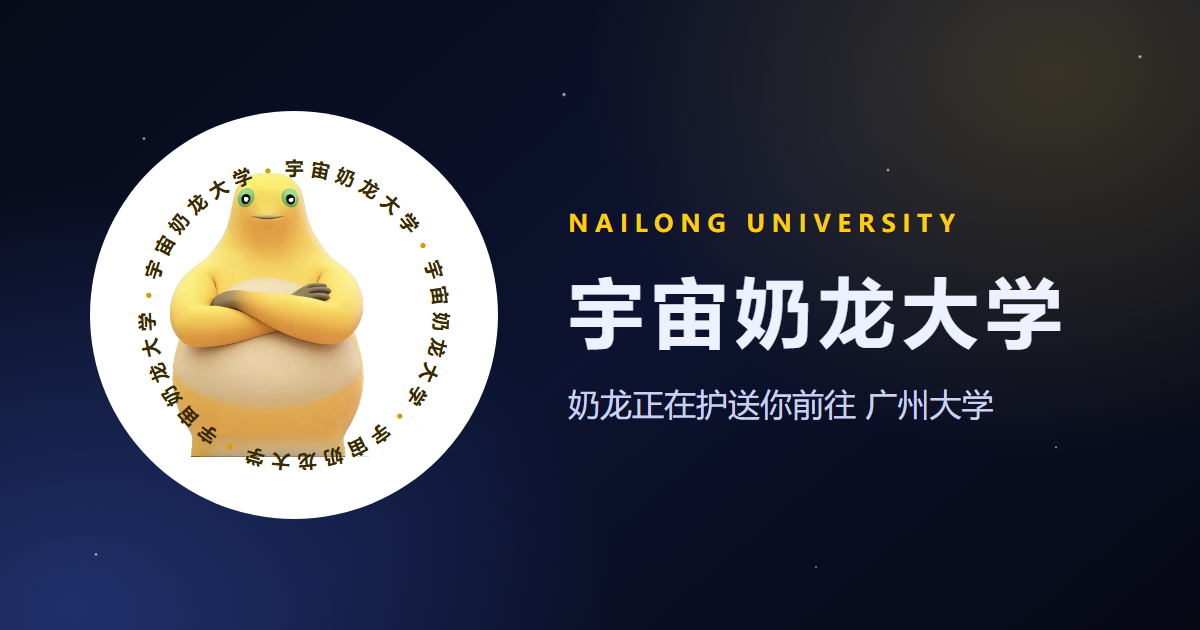
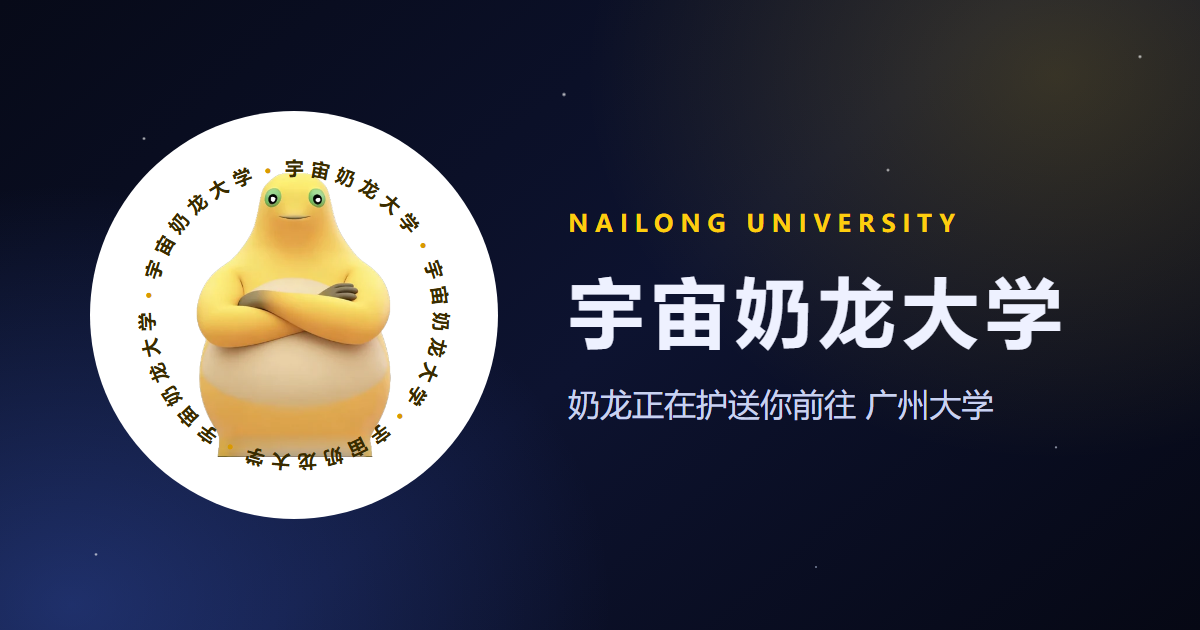
修复奶龙不居中：抠图后只保留最大连通域，清掉残留阴影碎片撑大的包围盒

Changed region(s): [[0.1233, 0.2714, 0.3392, 0.7238]]

diff --git a/tools/prepare_nailong.py b/tools/prepare_nailong.py
@@ -10,8 +10,14 @@
 素材没有 alpha 通道，背景是浅灰渐变 + 地面阴影；奶龙是饱和的黄色，
 所以用 HSV 饱和度做抠图：背景 R≈G≈B（饱和度极低），奶龙和肚皮都明显偏黄。
 
+抠完还要做一步「只留最大连通域」：原图右下角的地面阴影饱和度略高于阈值，
+会残留几块十几个像素的碎片。它们本身看不见，但会把 alpha 包围盒撑大
+（实测右边界从 413 被撑到 504），而 place() 是拿包围盒来算居中的 ——
+结果奶龙整只会偏左半格。所以必须先把这些孤岛清掉。
+
 跑法： python tools/prepare_nailong.py
 """
+from collections import deque
 from pathlib import Path
 
 import numpy as np
@@ -24,12 +30,54 @@ CANVAS = 720               # 和 ring.svg 的 viewBox 一致
 FIT = 486                  # 校徽中心：奶龙最长边占的像素数
 FIT_ICON = 524             # 图标：可以占得更满一点
 S_LO, S_HI = 0.055, 0.16   # 饱和度阈值：低于 LO 判为背景，高于 HI 判为奶龙
+KEEP_T = 64                # 「算连通域」用的阈值：低于它的像素不参与判定
+ALPHA_MIN = 40             # 最终 alpha 低于它的直接抹成 0（清掉大片极淡的阴影）
 
 
 def saturation(rgb: np.ndarray) -> np.ndarray:
     mx = rgb.max(axis=2)
     mn = rgb.min(axis=2)
     return (mx - mn) / np.maximum(mx, 1e-6)
+
+
+def keep_largest_blob(a: Image.Image) -> Image.Image:
+    """只保留最大的一块连通区域，其余孤岛一律抹掉（4 邻接，广度优先）。
+
+    这一步是为了修「奶龙不居中」：残留阴影碎片会把包围盒撑大，而居中用的是包围盒。
+    """
+    al = np.asarray(a).copy()
+    h, w = al.shape
+    mask = al >= KEEP_T                 # 只有够实的像素才算「奶龙的一部分」
+    seen = np.zeros((h, w), bool)
+
+    # 先把不达标的像素的 alpha 归零，剩下的再按连通域筛
+    al[~mask] = 0
+
+    best: list[tuple[int, int]] = []
+    for sy in range(h):
+        row = mask[sy]
+        for sx in range(w):
+            if not row[sx] or seen[sy, sx]:
+                continue
+            # 从 (sy, sx) 泛洪，收集这一整块
+            seen[sy, sx] = True
+            queue = deque([(sy, sx)])
+            blob = [(sy, sx)]
+            while queue:
+                y, x = queue.popleft()
+                for ny, nx in ((y - 1, x), (y + 1, x), (y, x - 1), (y, x + 1)):
+                    if 0 <= ny < h and 0 <= nx < w and mask[ny, nx] and not seen[ny, nx]:
+                        seen[ny, nx] = True
+                        queue.append((ny, nx))
+                        blob.append((ny, nx))
+            if len(blob) > len(best):
+                best = blob
+
+    keep = np.zeros((h, w), bool)
+    for y, x in best:
+        keep[y, x] = True
+    al[~keep] = 0
+    return Image.fromarray(al, "L")
 
 
 def cutout() -> Image.Image:
@@ -41,7 +89,8 @@ def cutout() -> Image.Image:
     a = Image.fromarray((alpha * 255).astype(np.uint8), "L")
     a = a.filter(ImageFilter.MedianFilter(5))      # 干掉孤立噪点
     a = a.filter(ImageFilter.GaussianBlur(0.8))    # 轻微羽化，边缘不生硬
-    a = a.point(lambda v: 0 if v < 60 else (255 if v > 200 else int((v - 60) * 255 / 140)))
+    a = a.point(lambda v: 0 if v < ALPHA_MIN else (255 if v > 200 else int((v - ALPHA_MIN) * 255 / (200 - ALPHA_MIN))))
+    a = keep_largest_blob(a)
 
     out = src.convert("RGBA")
     out.putalpha(a)
@@ -49,7 +98,10 @@ def cutout() -> Image.Image:
 
 
 def place(cut: Image.Image, fit: int = FIT, canvas: int = CANVAS) -> Image.Image:
-    """裁掉 alpha 之外的空白，等比缩放到 fit 像素，居中放进 canvas。"""
+    """裁掉 alpha 之外的空白，等比缩放到 fit 像素，居中放进 canvas。
+
+    居中用的是 alpha 包围盒，所以 cutout() 必须先把残留噪点清干净，否则会偏。
+    """
     bbox = cut.getchannel("A").point(lambda v: 255 if v > 8 else 0).getbbox()
     body = cut.crop(bbox)
     scale = fit / max(body.size)
@@ -84,7 +136,15 @@ def main() -> None:
 
     for f in ("core.png", "core.webp", "favicon.png", "favicon.ico"):
         print(f"{f}: {(ROOT / f).stat().st_size / 1024:.1f} KB")
-    print("奶龙在校徽里的位置:", core.getbbox())
+
+    # 自检：包围盒必须和画布同心，否则页面上奶龙会偏
+    box = core.getbbox()
+    cx = (box[0] + box[2]) / 2
+    cy = (box[1] + box[3]) / 2
+    print(f"奶龙包围盒: {box}  尺寸 {box[2]-box[0]}x{box[3]-box[1]}")
+    print(f"包围盒中心: ({cx:.1f}, {cy:.1f})   画布中心: ({CANVAS/2:.1f}, {CANVAS/2:.1f})"
+          f"   偏移: ({cx - CANVAS/2:+.1f}, {cy - CANVAS/2:+.1f})")
+    assert abs(cx - CANVAS / 2) <= 1 and abs(cy - CANVAS / 2) <= 1, "奶龙没居中！检查 keep_largest_blob"
 
 
 if __name__ == "__main__":
